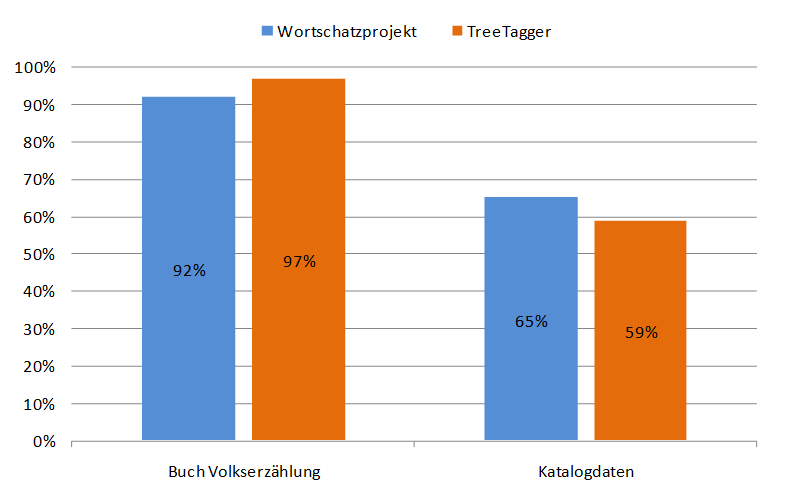
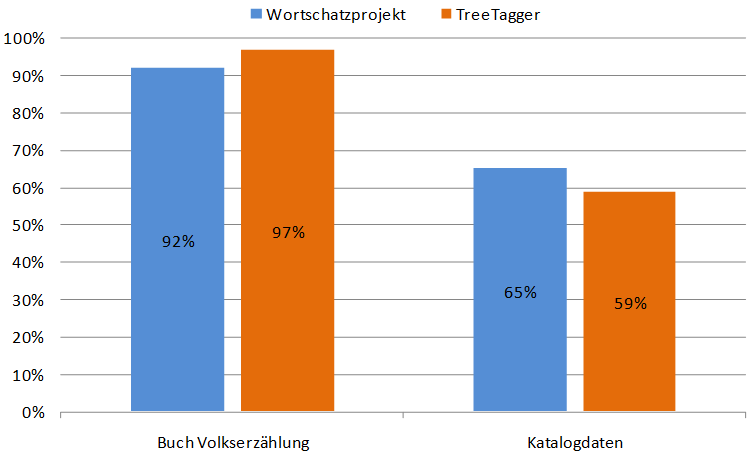
Layout zurechtgeschoben

diff --git a/00_Manteldokument.tex b/00_Manteldokument.tex
@@ -172,12 +172,12 @@
 
 \newlength{\imgwidth}
 \newlength{\imgwidthmax}
-\setlength{\imgwidthmax}{0.5\paperheight}
+\setlength{\imgwidthmax}{0.4\paperheight}
 
 \newcommand\scalegraphics[1]{%
     \settowidth{\imgwidth}{\includegraphics{#1}}%
-    \setlength{\imgwidth}{\minof{\imgwidthmax}{\minof{\imgwidth}{\textwidth}}}%
-    \includegraphics[width=0.8\imgwidth]{#1}%
+    \setlength{\imgwidth}{\minof{\imgwidthmax}{\minof{\imgwidth}{0.9\textwidth}}}%
+    \includegraphics[width=\imgwidth]{#1}%
 }
 
 % include icon like graphics on the line

diff --git a/titlepage.tex b/titlepage.tex
@@ -1,8 +1,10 @@
 \begin{titlepage}
+
+\ \vspace{5cm}
+
 	\centering
 %\hspace{1cm}\\
 %		\includegraphics[width=5cm]{img/Logo_8Fragezeichen}
-\vfill
 	{
 		\scshape\Huge \DOCNAME \par
 	}
